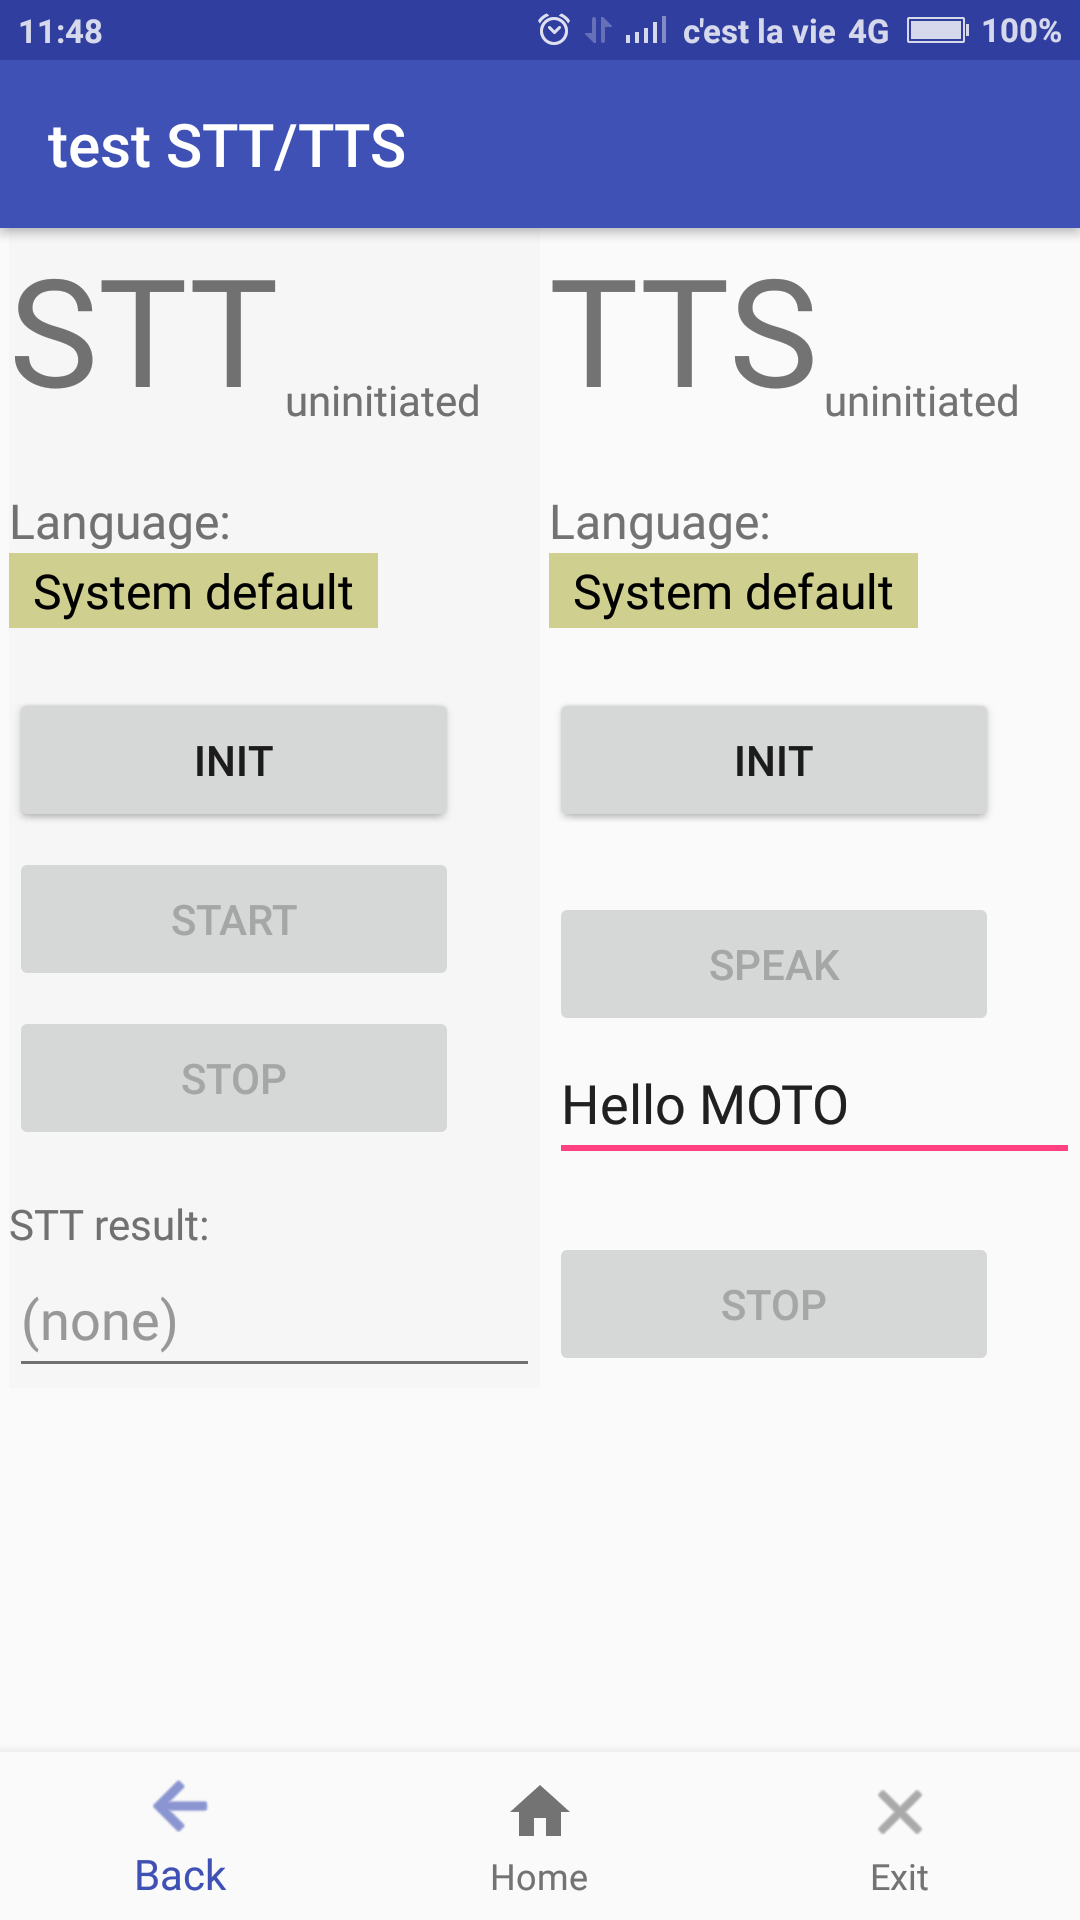
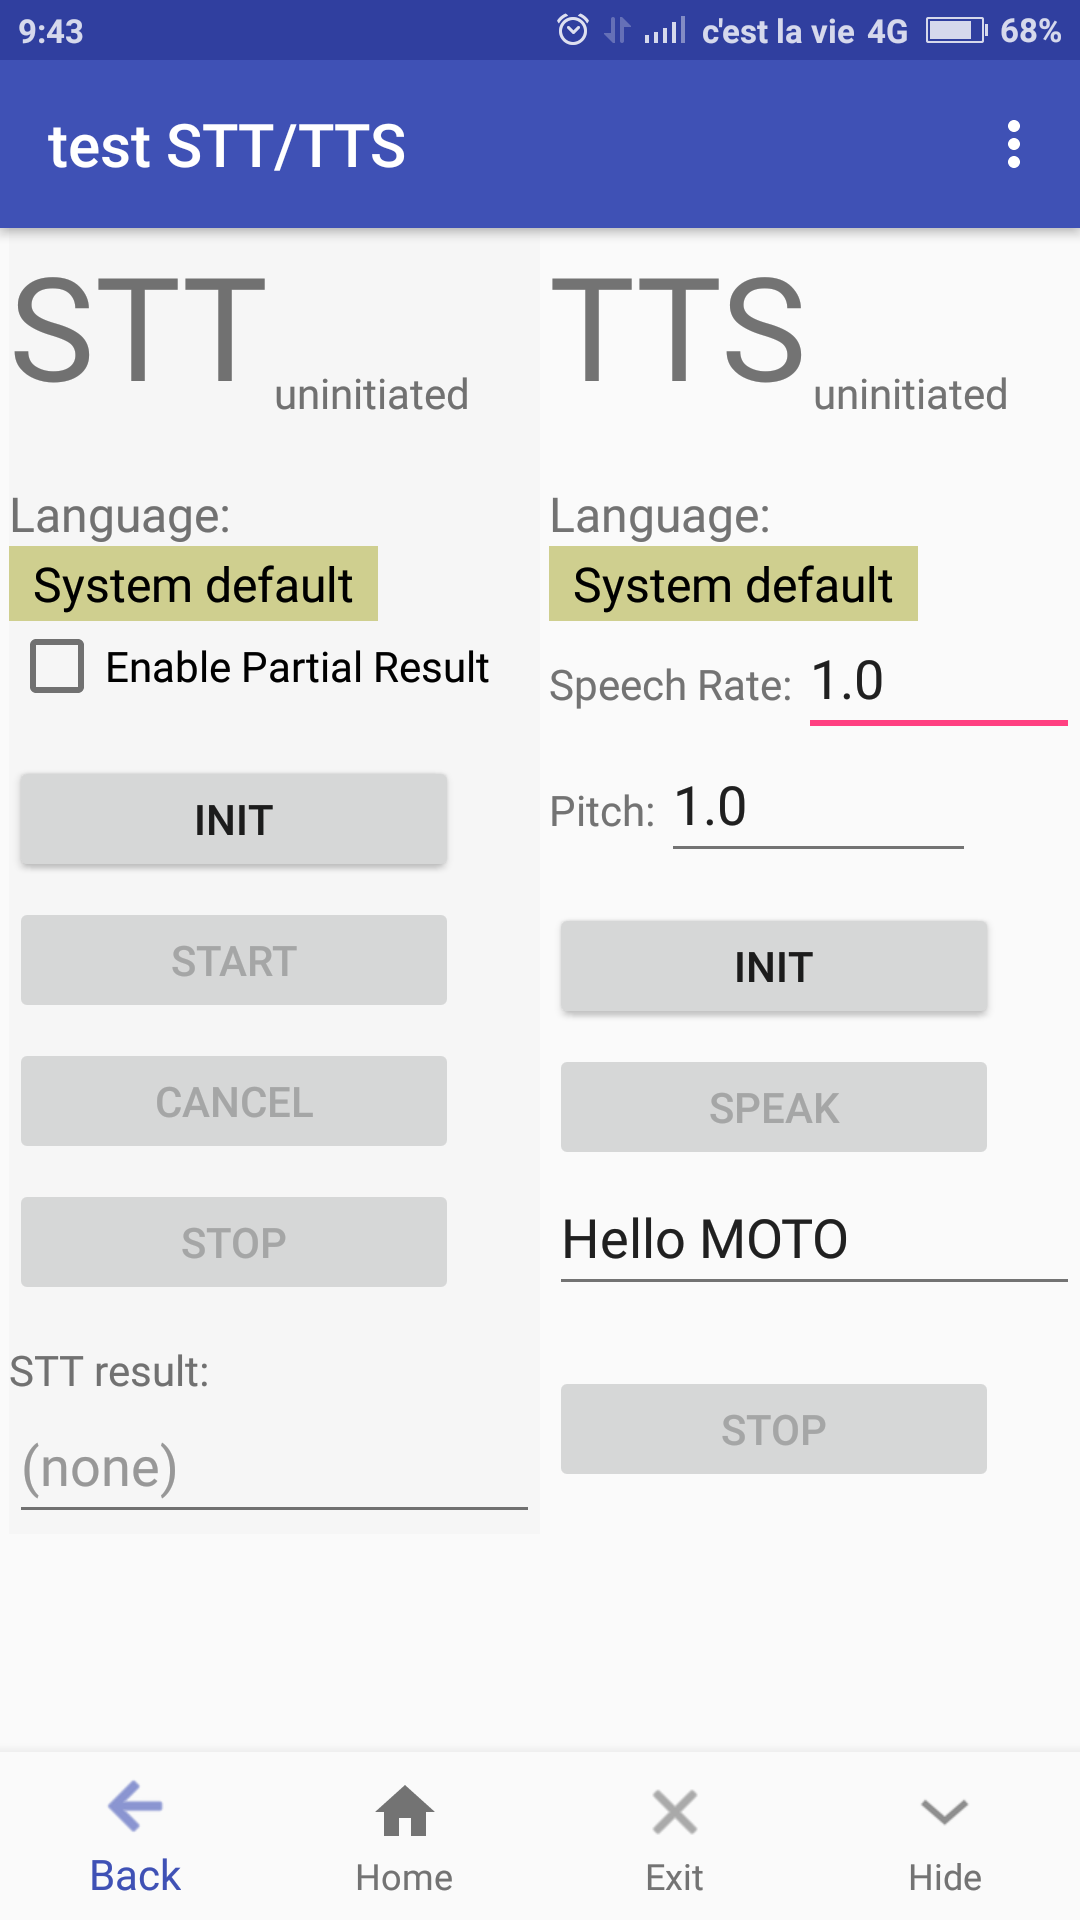
1. Support STT partial result on/off 2. Support TTS changing speech rate and pitch 3. Add "Hide" button to hide our navigation bar 4. Auto hide our navigation bar if native    navigation bar is shown 5. Add "Exit" in menu option 6. Support ScrollView now 7. Resize buttons and some labels 8. Add "Can

diff --git a/app/src/main/java/chess/teststttts/MainActivity.java b/app/src/main/java/chess/teststttts/MainActivity.java
@@ -1,5 +1,6 @@
 package chess.teststttts;
 
+import android.content.Context;
 import android.content.Intent;
 import android.os.Bundle;
 import android.speech.RecognitionListener;
@@ -11,10 +12,12 @@ import android.support.annotation.NonNull;
 import android.support.design.widget.BottomNavigationView;
 import android.support.v7.app.AppCompatActivity;
 import android.util.Log;
+import android.view.Menu;
 import android.view.MenuItem;
 import android.view.View;
 import android.widget.AdapterView;
 import android.widget.ArrayAdapter;
+import android.widget.CheckBox;
 import android.widget.EditText;
 import android.widget.Spinner;
 import android.widget.TextView;
@@ -62,6 +65,10 @@ public class MainActivity extends AppCompatActivity {
                 case R.id.navigation_exit:
                     finish();
                     return true;
+
+                case R.id.navigation_hide:
+                    findViewById(R.id.navigation).setVisibility(View.GONE);
+                    return true;
             }
             return false;
         }
@@ -99,11 +106,29 @@ public class MainActivity extends AppCompatActivity {
         }
     }
 
+    @Override
+    public boolean onCreateOptionsMenu(Menu menu) {
+        super.onCreateOptionsMenu(menu);
+        menu.add(R.string.title_exit);
+        return true;
+    }
+
+    @Override
+    public boolean onOptionsItemSelected(MenuItem item) {
+        finish();
+        return true;
+    }
+
+
     // To setup views
     private void initViews() {
         // The Navigation Buttons
         BottomNavigationView navigation = findViewById(R.id.navigation);
         navigation.setOnNavigationItemSelectedListener(mOnNavigationItemSelectedListener);
+        if (hasNavigationBar(this)) {
+            // There has a native navigation bar, we hide ourselves one.
+            navigation.setVisibility(View.GONE);
+        }
 
         // STT status sequence:
         //   uninitiated -> initialed -> listening
@@ -165,6 +190,7 @@ public class MainActivity extends AppCompatActivity {
                     // and then enable Start & Stop buttons.
                     v.setEnabled(false);
                     findViewById(R.id.button_stt_start).setEnabled(true);
+                    findViewById(R.id.button_stt_cancel).setEnabled(true);
                     findViewById(R.id.button_stt_stop).setEnabled(true);
                 }
                 break;
@@ -177,9 +203,23 @@ public class MainActivity extends AppCompatActivity {
                     if (null != mSTT_lang) {
                         intent.putExtra(RecognizerIntent.EXTRA_LANGUAGE, mSTT_lang);
                     }
+                    if(((CheckBox)findViewById(R.id.checkbox_enable_partial)).isChecked()) {
+                        // Enable partial result.
+                        intent.putExtra(RecognizerIntent.EXTRA_PARTIAL_RESULTS, true);
+                    }
+
                     mSR.setRecognitionListener(mSTT_listener);
                     mSR.startListening(intent);
                     mSTT_status.setText(R.string.listening);
+                }
+                break;
+
+            case R.id.button_stt_cancel:
+                if (DBG) Log.d(TAG, "onClick, stt cancel");
+                if (null != mSR) {
+                    mSR.stopListening();
+                    mSR.cancel();
+                    mSTT_status.setText(R.string.canceled);
                 }
                 break;
 
@@ -201,11 +241,15 @@ public class MainActivity extends AppCompatActivity {
 
             case R.id.button_tts_speak:
                 if (DBG) Log.d(TAG, "onClick, tts speak, mTTS_lang="+mTTS_lang);
-                if (null != mTTS && !mTTS.isSpeaking()) {
-                    if (null != mTTS_lang) {
-                        // Use desired TTS language if user selected one.
-                        mTTS.setLanguage(mTTS_lang);
-                    }
+                if (null != mTTS) {
+                    // Set speech rate and pitch.
+                    float speechRate =
+                            Float.valueOf(((EditText)findViewById(R.id.speech_rate_value)).getText().toString());
+                    float pitch =
+                            Float.valueOf(((EditText)findViewById(R.id.pitch_value)).getText().toString());
+                    if (DBG) Log.d(TAG, "onClick, tts speak, speechRate="+speechRate+", pitch="+pitch);
+                    mTTS.setSpeechRate(speechRate);
+                    mTTS.setPitch(pitch);
 
                     // Start speaking.
                     mTTS.speak(mTTS_content.getText(), TextToSpeech.QUEUE_ADD, null, TAG);
@@ -219,7 +263,7 @@ public class MainActivity extends AppCompatActivity {
 
             case R.id.button_tts_stop:
                 if (DBG) Log.d(TAG, "onClick, tts stop");
-                if (null != mTTS && mTTS.isSpeaking()) {
+                if (null != mTTS) {
                     mTTS.stop();
                     mTTS_status.setText(R.string.stopped);
                 }
@@ -277,6 +321,11 @@ public class MainActivity extends AppCompatActivity {
                             }
                         }
                         if (DBG) Log.d(TAG, "TTS lang selected: "+selected_str+", mTTS_lang="+mTTS_lang);
+
+                        if (null != mTTS_lang && null != mTTS) {
+                            // Use desired TTS language if user selected one.
+                            mTTS.setLanguage(mTTS_lang);
+                        }
                     }
                     break;
 
@@ -302,7 +351,7 @@ public class MainActivity extends AppCompatActivity {
         }
 
         public void onRmsChanged(float rmsdB) {
-            if (DBG) Log.d(TAG, "onRmsChanged");
+            //if (DBG) Log.d(TAG, "onRmsChanged, rmsdB="+rmsdB);
         }
 
         public void onBufferReceived(byte[] buffer) {
@@ -320,12 +369,14 @@ public class MainActivity extends AppCompatActivity {
         }
 
         public void onResults(Bundle results) {
+            //if (DBG) Log.d(TAG, "onResults");
             try {
                 // Get STT result and update it to UI.
                 ArrayList data = results.getStringArrayList(SpeechRecognizer.RESULTS_RECOGNITION);
                 if (null != data) {
                     String str = data.get(0).toString();
                     mSTT_result.setText(str);
+                    if (DBG) Log.d(TAG, "onResults, str="+str);
                 }
             } catch (Exception e) {
                 Log.e(TAG, "got exception, e="+e);
@@ -333,7 +384,18 @@ public class MainActivity extends AppCompatActivity {
         }
 
         public void onPartialResults(Bundle partialResults) {
-            if (DBG) Log.d(TAG, "onPartialResults");
+            //if (DBG) Log.d(TAG, "onPartialResults");
+            try {
+                // Get STT result and update it to UI.
+                ArrayList data = partialResults.getStringArrayList(SpeechRecognizer.RESULTS_RECOGNITION);
+                if (null != data) {
+                    String str = data.get(0).toString();
+                    mSTT_result.setText(str);
+                    if (DBG) Log.d(TAG, "onPartialResults, str="+str);
+                }
+            } catch (Exception e) {
+                Log.e(TAG, "got exception, e="+e);
+            }
         }
 
         public void onEvent(int eventType, Bundle params) {
@@ -406,5 +468,11 @@ public class MainActivity extends AppCompatActivity {
                 tv.setText(status);
             }
         });
+    }
+
+    // Return true if there has native navigation bar.
+    public boolean hasNavigationBar (Context context) {
+        int id = context.getResources().getIdentifier("config_showNavigationBar", "bool", "android");
+        return id > 0 && context.getResources().getBoolean(id);
     }
 }
